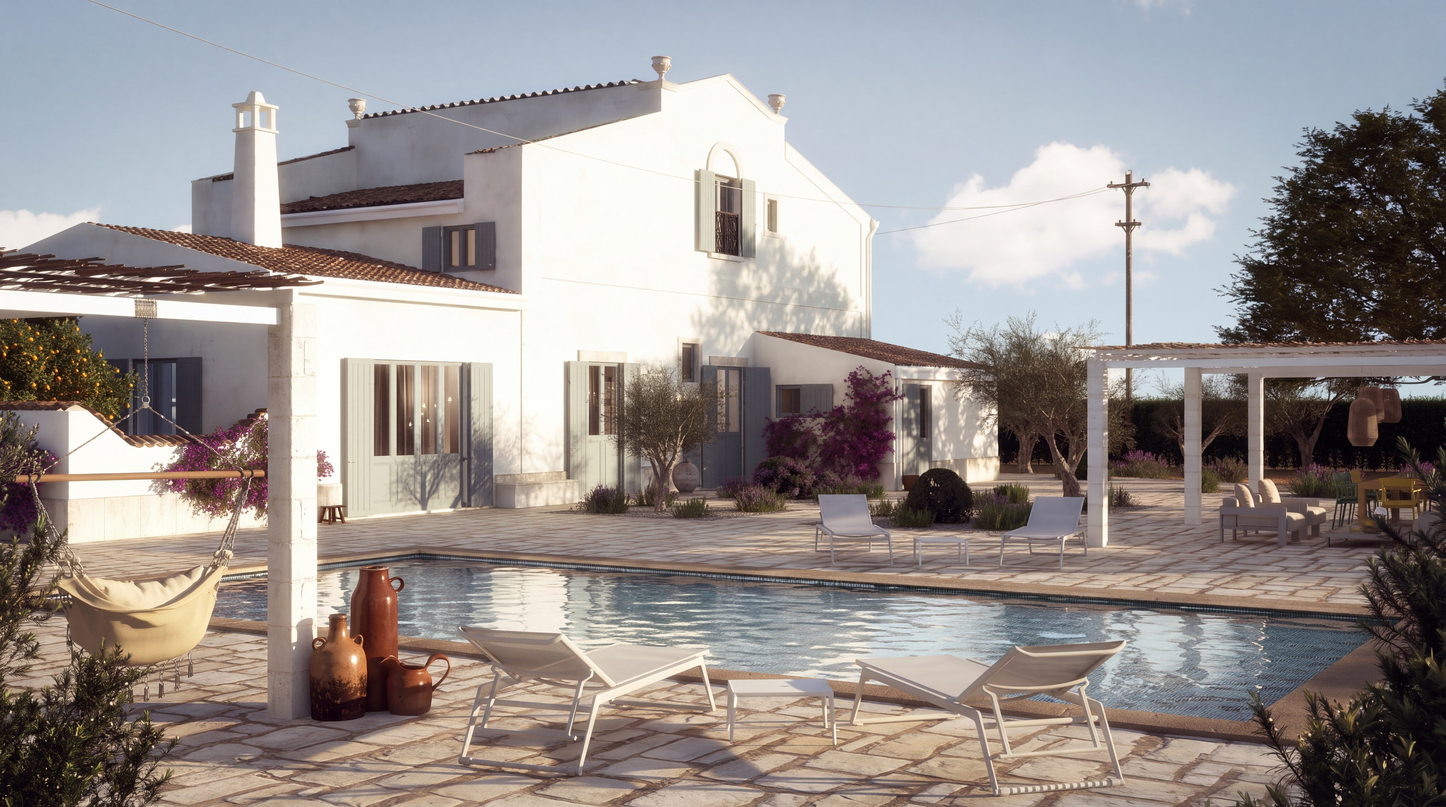
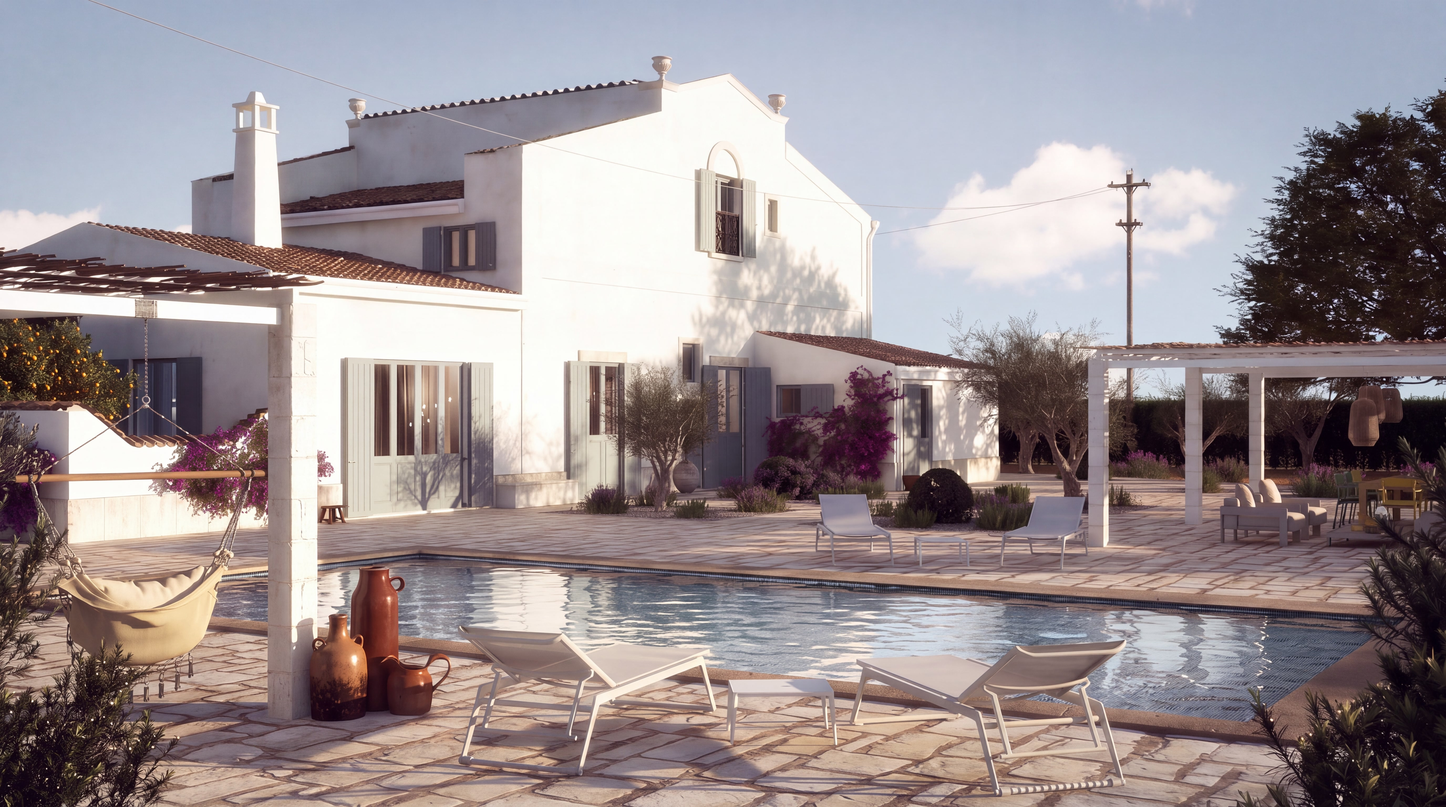
v8.1: fix CSS/image cache-busters and upgrade Villa Trani + Masseria 4K renders

diff --git a/app.js b/app.js
@@ -60,7 +60,7 @@ const portfolioData = [
     title: "Grand Resort & Wellness Spa",
     category: "commercial",
     location: "Polignano a Mare, Puglia",
-    image: "assets/portfolio/hotel-resort.jpg",
+    image: "assets/portfolio/hotel-resort.jpg?v=8.1",
     flex: 1.1,
     desc: "Visualizzazione ad altissimo impatto per resort di lusso a picco sul mare. Modellazione dettagliata di vegetazione autoctona foglia per foglia e rifrazione caustica dell'acqua marina."
   },
@@ -90,7 +90,7 @@ const portfolioData = [
     title: "Attico Panoramico sul Lungomare",
     category: "interior",
     location: "Bari Centro",
-    image: "assets/portfolio/apt-bari.jpg",
+    image: "assets/portfolio/apt-bari.jpg?v=8.1",
     flex: 1.0,
     desc: "Restyling d'interni con parquet in rovere affumicato posato a spina di pesce ungherese, arredi custom su disegno e illuminazione lineare a scomparsa radente."
   },
@@ -110,7 +110,7 @@ const portfolioData = [
     title: "Villa Monolitica in Pietra",
     category: "exterior",
     location: "Trani, Costa Adriatica",
-    image: "assets/portfolio/villa-trani.jpg",
+    image: "assets/portfolio/villa-trani.jpg?v=8.1",
     flex: 1.2,
     desc: "Residenza privata unifamiliare con setti murari in pietra di Trani bocciardata e terrazzamenti solarium a sbalzo affacciati sul litorale adriatico."
   },
@@ -218,7 +218,7 @@ const portfolioData = [
     title: "Masseria San Nicola — Pergola & Pool Lounge",
     category: "exterior",
     location: "Fasano, Valle d'Itria",
-    image: "assets/portfolio/masseria-pergola-pool.jpg",
+    image: "assets/portfolio/masseria-pergola-pool.jpg?v=8.1",
     hoverVideoSrc: "assets/videos/masseria-pergola-pool-motion.mp4",
     flex: 1.45,
     desc: "Visualizzazione fotorealistica a luce solare naturale zenitale: pergola bioclimatica in legno bianco, vasi in terracotta pugliese e specchio d'acqua a sfioro."
@@ -229,7 +229,7 @@ const portfolioData = [
     title: "Tenuta Pugliese — Traditional Estate & Pool",
     category: "exterior",
     location: "Ostuni, Puglia",
-    image: "assets/portfolio/masseria-pugliese-estate.jpg",
+    image: "assets/portfolio/masseria-pugliese-estate.jpg?v=8.1",
     flex: 1.4,
     desc: "Architettura rurale pugliese di pregio: intonaco bianco a calce viva, infissi tradizionali verde salvia, ulivi secolari e calcolo fotometrico delle ombre pomeridiane."
   },
@@ -239,7 +239,7 @@ const portfolioData = [
     title: "Viale dei Cipressi & Lavanda — Masseria Entryway",
     category: "exterior",
     location: "Monopoli, Puglia",
-    image: "assets/portfolio/masseria-viale-accesso.jpg",
+    image: "assets/portfolio/masseria-viale-accesso.jpg?v=8.1",
     flex: 1.35,
     desc: "Prospettiva assiale monumentale con pavimentazione in chianche antiche bocciardate, aiuole di lavanda autoctona e maestoso portale con arco d'ingresso."
   },
@@ -250,8 +250,8 @@ const portfolioData = [
     category: "exterior",
     location: "Puglia Luxury Estate",
     videoSrc: "assets/videos/masseria-cinematic-loop.mp4",
-    poster: "assets/portfolio/masseria-cinematic-poster.jpg",
-    image: "assets/portfolio/masseria-cinematic-poster.jpg",
+    poster: "assets/portfolio/masseria-cinematic-poster.jpg?v=8.1",
+    image: "assets/portfolio/masseria-cinematic-poster.jpg?v=8.1",
     flex: 1.5,
     desc: "Animazione cinematografica in loop 4K: simulazione dinamica delle increspature dell'acqua in piscina, fronde degli ulivi mosse dal vento e riflessi solari in tempo reale."
   },
@@ -271,7 +271,7 @@ const portfolioData = [
     title: "Residenza Materica — Pioggia, Corten & Cemento",
     category: "exterior",
     location: "Valle d'Itria, Puglia",
-    image: "assets/portfolio/villa-pioggia-corten.jpg",
+    image: "assets/portfolio/villa-pioggia-corten.jpg?v=8.1",
     flex: 1.35,
     desc: "Atmosfera temporalesca fotometricamente complessa: riflessi diffusi sulle superfici bagnate, gocce su vetrate a tutta altezza, setti in corten ossidato e piscina a sfioro."
   },

diff --git a/index.html b/index.html
@@ -67,7 +67,7 @@
       } catch(e) {}
     })();
   </script>
-  <link rel="stylesheet" href="style.css?v=7.5">
+  <link rel="stylesheet" href="style.css?v=8.1">
 </head>
 <body class="theme-light">
 
@@ -871,7 +871,7 @@
     </div>
   </footer>
 
-  <script src="app.js?v=8.0"></script>
-  <script src="team3d.js?v=8.0"></script>
+  <script src="app.js?v=8.1"></script>
+  <script src="team3d.js?v=8.1"></script>
 </body>
 </html>
